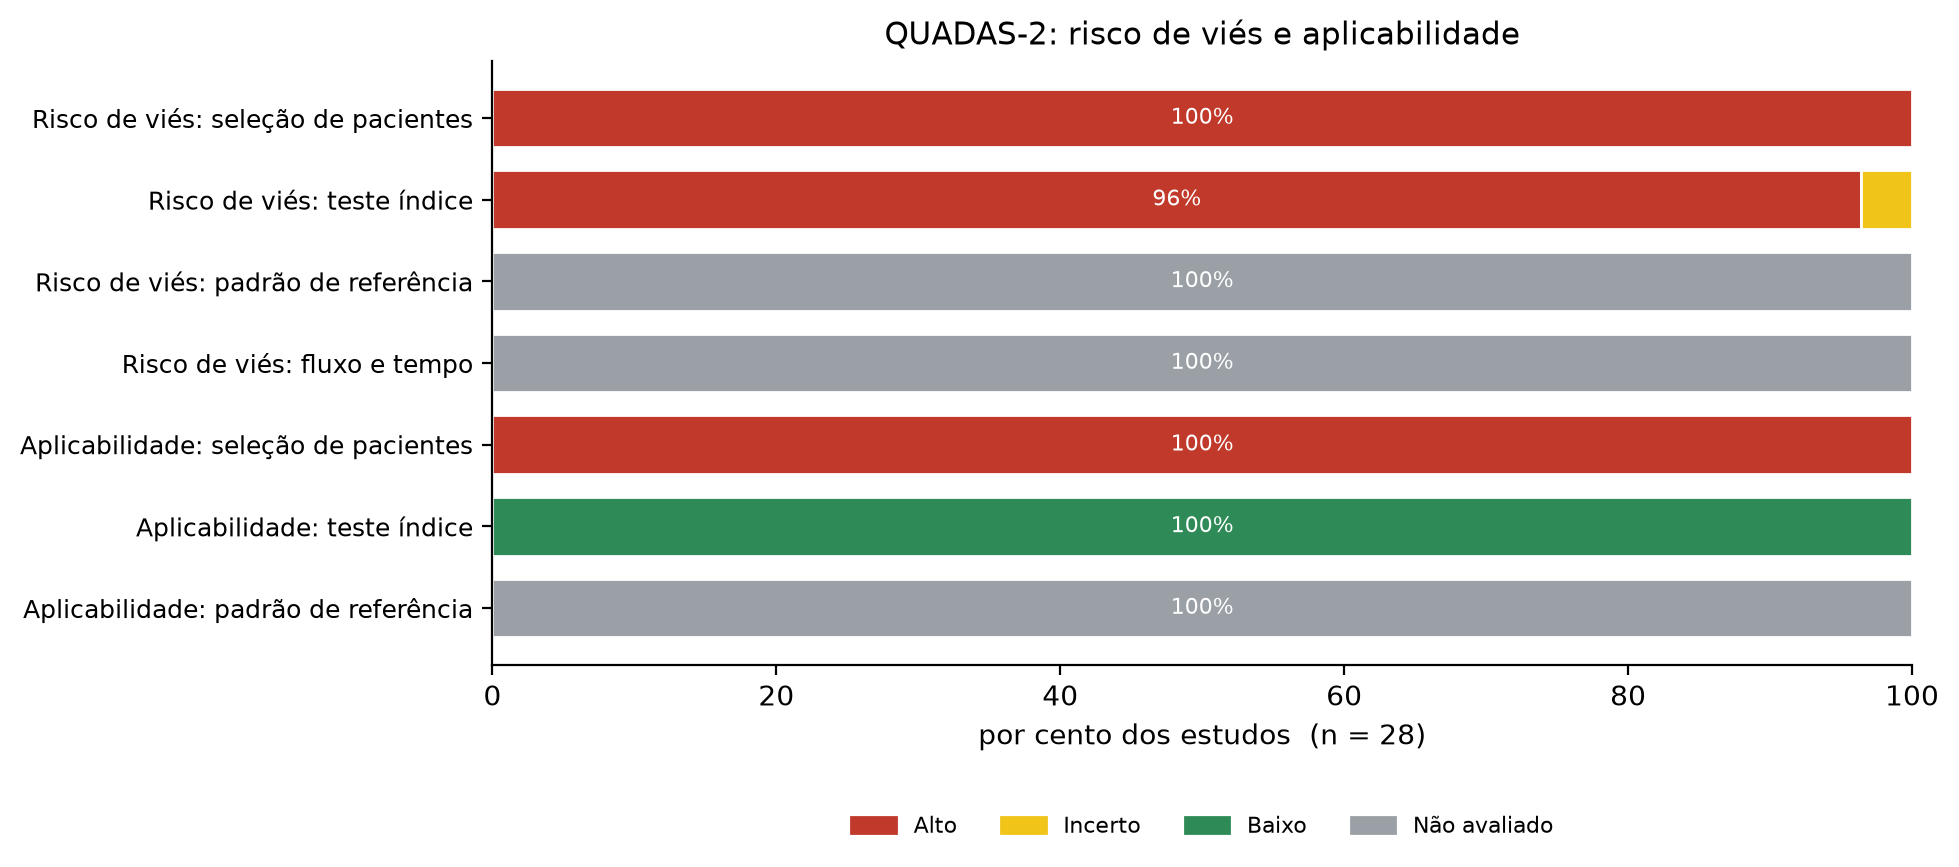
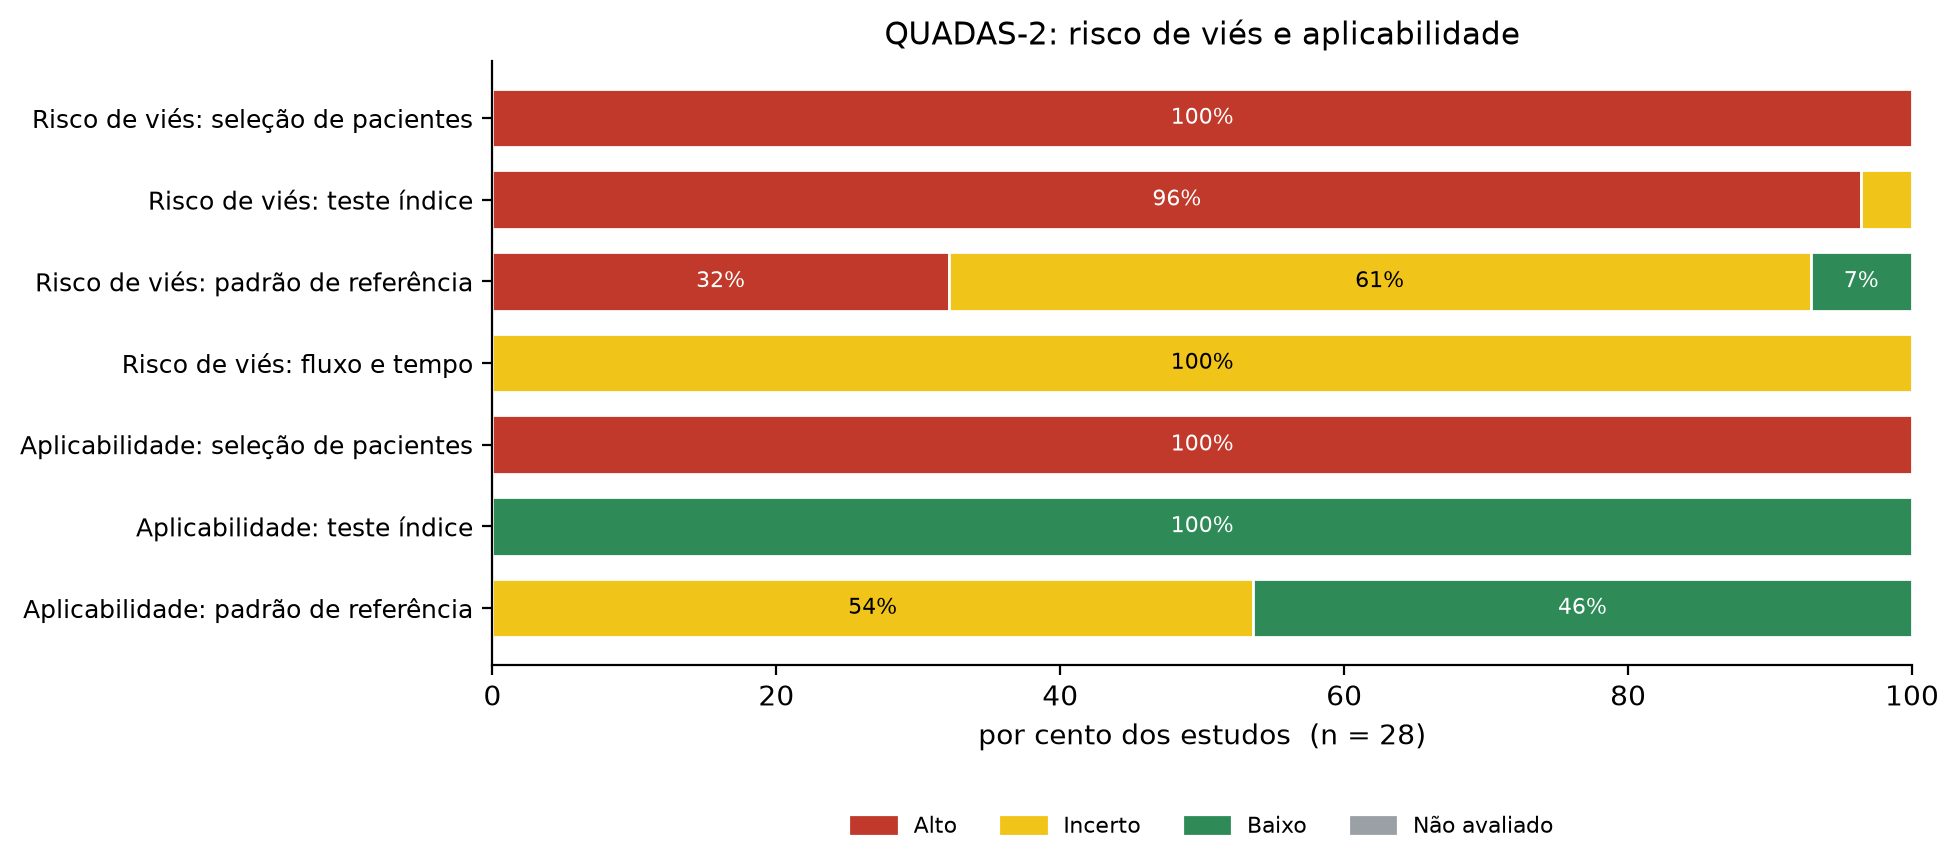
Rate the two QUADAS-2 domains that were unrated, from the full texts
data/extracted/quadas2_study_level.csv is new: one row per pooled study with the
sentence naming the diagnostic criteria and the sentence stating blinding, read
from PubMed Central full text for 22 of the 28 studies. The other 6 have no PMC
record and are recorded as such rather than guessed.

What the reading found:
- 13 of 22 name accepted diagnostic criteria for their own cohort. Building the
  extractor took three passes: the first pulled sentences out of introductions
  ('clinical diagnosis of AD is usually based on...'), the second was so strict
  it rejected 'PD was diagnosed according to the United Kingdom Brain Bank
  Society Criteria', and the third also had to prefer the sentence matching the
  row's disease, because one AD study's first criteria sentence describes its
  DLB comparator.
- ONE study of 28 has neuropathological confirmation. Every other reference
  standard is clinical criteria, which misclassify a known fraction of AD and
  PD cases, so their error propagates into every pooled estimate.
- ONE study of 28 states that laboratory staff were blinded to diagnosis.
- NONE of the 22 full texts contains a STARD flow diagram; one accounts for
  post-enrolment exclusions and one gives the sampling-to-diagnosis interval.

So reference standard is now 2 low, 17 unclear, 9 high, and flow and timing is
unclear for all 28 - checked against the primary reports and unanswerable from
them, which is a finding about how this literature reports rather than a gap in
[…]

Changed region(s): [[0.2491, 0.2803, 0.9964, 0.4671], [0.2491, 0.654, 0.9964, 0.7474]]

diff --git a/scripts/14_quadas2_risk_of_bias.py b/scripts/14_quadas2_risk_of_bias.py
@@ -61,6 +61,7 @@ sys.path.insert(0, os.path.dirname(os.path.abspath(__file__)))
 from _bilingual import LANGS, t, fig_path
 
 EXTRACTION = "data/extracted/diagnostic_accuracy_extraction.csv"
+STUDY_LEVEL = "data/extracted/quadas2_study_level.csv"
 TAB_DIR = "results/tables"
 FIG_DIR = "results/figures"
 
@@ -152,38 +153,77 @@ def rob_index_test(rows):
     return UNCLEAR, "cohort stage not determinable [cohort_stage]"
 
 
-def rob_reference_standard(rows):
+def rob_reference_standard(rows, sl):
     """
     EN | Signalling questions: is the reference standard likely to classify the target
          condition correctly? was it interpreted without knowledge of the index test?
-         Neither is answerable: the extraction did not record which diagnostic criteria
-         each study used, nor whether the diagnosis was made blind to the miRNA result.
-         This matters more than usual here, because for Alzheimer and Parkinson disease
-         the practical reference standard is clinical criteria rather than autopsy, and
-         its own error rate propagates into every accuracy estimate pooled in this review.
+         Both are answered from data/extracted/quadas2_study_level.csv, which records,
+         per study, the sentence naming the diagnostic criteria and the sentence stating
+         blinding, read from the PubMed Central full text.
+         The judgement turns on a fact specific to these two diseases: the practical
+         reference standard is clinical criteria, not autopsy, and clinical criteria
+         misclassify a known fraction of cases. A study that names accepted criteria has
+         done what the field expects and still cannot be rated LOW on that ground alone,
+         because the standard it used is imperfect and the accuracy estimates inherit its
+         error. Only neuropathological confirmation, or named criteria plus stated
+         blinding, clears the domain.
     PT | Perguntas-sinal: o padrao de referencia provavelmente classifica corretamente a
          condicao alvo? foi interpretado sem conhecer o teste indice?
-         Nenhuma e respondivel: a extracao nao registrou quais criterios diagnosticos cada
-         estudo usou, nem se o diagnostico foi feito cego ao resultado do miRNA. Isso pesa
-         mais que o normal aqui, porque para doenca de Alzheimer e de Parkinson o padrao
-         de referencia pratico e criterio clinico e nao autopsia, e a taxa de erro dele se
-         propaga para toda estimativa agrupada nesta revisao.
+         As duas sao respondidas por data/extracted/quadas2_study_level.csv, que registra,
+         por estudo, a frase que nomeia os criterios diagnosticos e a frase que declara
+         cegamento, lidas do texto completo no PubMed Central.
+         O julgamento gira num fato especifico destas duas doencas: o padrao de referencia
+         pratico e criterio clinico, nao autopsia, e criterio clinico classifica errado uma
+         fracao conhecida dos casos. Um estudo que nomeia criterios aceitos fez o que o
+         campo espera e ainda assim nao pode ser LOW so por isso, porque o padrao que usou
+         e imperfeito e as estimativas de acuracia herdam o erro dele. So confirmacao
+         neuropatologica, ou criterios nomeados mais cegamento declarado, limpa o dominio.
     """
-    return UNRATED, "reference standard and blinding were not captured by the extraction"
+    if not sl:
+        return UNCLEAR, "no study-level record for this study [quadas2_study_level.csv]"
+    if sl["fulltext_availability"] != "yes":
+        return UNCLEAR, (f"full text not retrievable ({sl['fulltext_availability']}), so the "
+                         "reference standard could not be checked [quadas2_study_level.csv]")
+    if sl["autopsy_confirmed"] == "yes":
+        return LOW, "neuropathological confirmation of the target condition [reference_standard_quote]"
+    if sl["reference_standard_named"] == "yes":
+        if sl["blinding_stated"] == "yes":
+            return LOW, ("named diagnostic criteria and stated blinding to the index test "
+                         "[reference_standard_quote, blinding_quote]")
+        return UNCLEAR, ("named clinical diagnostic criteria, which misclassify a known "
+                         "fraction of AD and PD cases, and no statement of blinding "
+                         "[reference_standard_quote]")
+    return HIGH, ("the full text was read and names no diagnostic criteria for the target "
+                  "condition [reference_standard_named=no]")
 
 
-def rob_flow_timing(rows):
+def rob_flow_timing(rows, sl):
     """
     EN | Signalling questions: appropriate interval between index test and reference
          standard? did all patients receive a reference standard, and the same one? were
          all patients included in the analysis?
-         None is answerable from the extraction.
+         These were checked against the full texts and are, with one exception each, not
+         reported: none of the 22 retrievable full texts contains a STARD flow diagram or
+         flow chart, one accounts for post-enrolment exclusions, and one states the
+         interval between sampling and diagnosis. The domain is therefore UNCLEAR rather
+         than unrated - the question was asked of the primary reports and they do not
+         answer it. That silence is itself a finding about how this literature reports.
     PT | Perguntas-sinal: intervalo adequado entre teste indice e padrao de referencia?
          todos os pacientes receberam padrao de referencia, e o mesmo? todos entraram na
          analise?
-         Nenhuma e respondivel pela extracao.
+         Foram conferidas contra os textos completos e, com uma excecao cada, nao sao
+         reportadas: nenhum dos 22 textos completos recuperaveis traz fluxograma STARD ou
+         diagrama de fluxo, um presta contas de exclusoes apos a inclusao e um declara o
+         intervalo entre coleta e diagnostico. O dominio fica UNCLEAR e nao nao-avaliado -
+         a pergunta foi feita aos relatos primarios e eles nao respondem. Esse silencio e,
+         em si, um achado sobre como esta literatura reporta.
     """
-    return UNRATED, "patient flow and timing were not captured by the extraction"
+    if not sl or sl["fulltext_availability"] != "yes":
+        return UNCLEAR, ("full text not retrievable, so patient flow could not be checked "
+                         "[quadas2_study_level.csv]")
+    return UNCLEAR, ("full text read: no STARD flow diagram, and neither the accounting of "
+                     "all enrolled participants nor the interval between sampling and "
+                     "diagnosis is reported [full text]")
 
 
 def app_patient_selection(rows):
@@ -236,9 +276,22 @@ def app_index_test(rows):
     return LOW, f"minimally invasive circulating sample: {sorted(fluids)} [biofluid]"
 
 
-def app_reference_standard(rows):
-    """EN/PT: not captured by the extraction, as in rob_reference_standard."""
-    return UNRATED, "reference standard was not captured by the extraction"
+def app_reference_standard(rows, sl):
+    """
+    EN | Does the target condition as defined by the reference standard match the review
+         question? The review asks about diagnosing clinically established AD or PD, and a
+         study using the accepted clinical criteria for those diseases is answering that
+         question, whatever the criteria's own error rate.
+    PT | A condicao alvo definida pelo padrao de referencia corresponde a pergunta da
+         revisao? A revisao trata de diagnosticar DA ou DP clinicamente estabelecida, e um
+         estudo que usa os criterios clinicos aceitos para essas doencas esta respondendo a
+         essa pergunta, qualquer que seja a taxa de erro dos criterios.
+    """
+    if not sl or sl["fulltext_availability"] != "yes":
+        return UNCLEAR, "full text not retrievable [quadas2_study_level.csv]"
+    if sl["reference_standard_named"] == "yes" or sl["autopsy_confirmed"] == "yes":
+        return LOW, "the target condition is AD or PD as defined by accepted criteria"
+    return UNCLEAR, "the target condition definition is not stated in the full text"
 
 
 RULES = OrderedDict([
@@ -252,7 +305,10 @@ RULES = OrderedDict([
 ])
 
 
-def assess(rows_by_study):
+NEEDS_STUDY_LEVEL = {"rob_reference_standard", "rob_flow_timing", "app_reference_standard"}
+
+
+def assess(rows_by_study, study_level):
     out = []
     for sid, rows in sorted(rows_by_study.items()):
         first = rows[0]
@@ -266,8 +322,9 @@ def assess(rows_by_study):
             ("n_estimates_eligible", sum(1 for r in rows
                                          if r["eligible_primary_pool"] == "yes")),
         ])
+        sl = study_level.get(sid)
         for key, rule in RULES.items():
-            verdict, reason = rule(rows)
+            verdict, reason = (rule(rows, sl) if key in NEEDS_STUDY_LEVEL else rule(rows))
             rec[key] = verdict
             rec[key + "_reason"] = reason
         out.append(rec)
@@ -331,7 +388,11 @@ def main():
     for r in eligible:
         by_study.setdefault(study_id(r), []).append(r)
 
-    assessment = assess(by_study)
+    study_level = {}
+    if os.path.exists(STUDY_LEVEL):
+        study_level = {r["study_id"]: r
+                       for r in csv.DictReader(open(STUDY_LEVEL, encoding="utf-8"))}
+    assessment = assess(by_study, study_level)
     fields = list(assessment[0].keys())
     with open(f"{TAB_DIR}/quadas2_assessment.csv", "w", encoding="utf-8", newline="") as fh:
         w = csv.DictWriter(fh, fieldnames=fields)

diff --git a/scripts/08_verify_consistency.py b/scripts/08_verify_consistency.py
@@ -28,6 +28,7 @@ PT | Este repositorio e um pacote de reprodutibilidade: dados brutos, scripts,
 import csv
 import json
 import math
+import re
 import sys
 
 EXTRACTION = "data/extracted/diagnostic_accuracy_extraction.csv"
@@ -46,6 +47,7 @@ COUNTS = "data/raw/systematic_review_2026/mirna_mention_counts.csv"
 CORPUS = "data/raw/systematic_review_2026/screening_corpus.json"
 TRIALS = "data/raw/clinical_trials_2026/mirna_therapeutics_trials.json"
 QUADAS = "results/tables/quadas2_assessment.csv"
+QUADAS_STUDY_LEVEL = "data/extracted/quadas2_study_level.csv"
 QUADAS_SUMMARY = "results/tables/quadas2_summary.json"
 BIVARIATE = "results/tables/bivariate_summary.csv"
 BIVARIATE_JSON = "results/tables/bivariate_model.json"
@@ -607,6 +609,64 @@ def main():
         check(qsum["excluded_non_case_control_estimates"] == excluded,
               f"QUADAS-2: the recorded eligibility circularity {qsum['excluded_non_case_control_estimates']} "
               f"disagrees with the extraction {excluded}")
+
+    # EN | The study-level record behind the reference-standard and flow domains. A
+    #      verdict of LOW or HIGH there rests on a quoted sentence, so the quote has to be
+    #      present, and the flags derived from it have to agree with it.
+    # PT | O registro por estudo que sustenta os dominios de padrao de referencia e fluxo.
+    #      Um veredito LOW ou HIGH ali repousa numa frase citada, entao a citacao precisa
+    #      existir, e os sinalizadores derivados dela precisam concordar com ela.
+    try:
+        sl = list(csv.DictReader(open(QUADAS_STUDY_LEVEL, encoding="utf-8")))
+    except FileNotFoundError:
+        sl = None
+    if sl is not None and quadas is not None:
+        eligible_studies = {study_id(r) for r in ext if r["eligible_primary_pool"] == "yes"}
+        check({r["study_id"] for r in sl} == eligible_studies,
+              "QUADAS-2 study level: the studies covered are not the studies pooled")
+        for r in sl:
+            avail = r["fulltext_availability"]
+            check(avail in ("yes", "no_fulltext_in_pmc", "no_pmc_record"),
+                  f"QUADAS-2 study level {r['study_id']}: unexpected availability {avail!r}")
+            if avail != "yes":
+                check(not r["reference_standard_quote"] and not r["blinding_quote"],
+                      f"QUADAS-2 study level {r['study_id']}: quotes recorded although the "
+                      "full text was not retrievable")
+                continue
+            check(r["reference_standard_named"] in ("yes", "no"),
+                  f"QUADAS-2 study level {r['study_id']}: reference_standard_named must be yes or no")
+            check((r["reference_standard_named"] == "yes") == bool(r["reference_standard_quote"]),
+                  f"QUADAS-2 study level {r['study_id']}: the named flag and the quote disagree")
+            check((r["blinding_stated"] == "yes") == bool(r["blinding_quote"]),
+                  f"QUADAS-2 study level {r['study_id']}: the blinding flag and the quote disagree")
+            if r["autopsy_confirmed"] == "yes":
+                check(bool(re.search(r"autops|neuropatholog|Braak|Brain Bank Network",
+                                     r["reference_standard_quote"], re.I)),
+                      f"QUADAS-2 study level {r['study_id']}: autopsy claimed but the quote "
+                      "does not mention neuropathological confirmation")
+        # EN/PT: every reference-standard verdict must follow from the study-level record
+        by_sl = {r["study_id"]: r for r in sl}
+        for row in quadas:
+            rec = by_sl.get(row["study_id"])
+            if not rec:
+                continue
+            v = row["rob_reference_standard"]
+            if rec["autopsy_confirmed"] == "yes" or rec["blinding_stated"] == "yes":
+                check(v == "low", f"QUADAS-2 {row['study_id']}: expected low reference-standard risk")
+            elif rec["fulltext_availability"] != "yes":
+                check(v == "unclear",
+                      f"QUADAS-2 {row['study_id']}: unretrievable full text must be unclear")
+            elif rec["reference_standard_named"] == "yes":
+                check(v == "unclear", f"QUADAS-2 {row['study_id']}: named criteria must be unclear")
+            else:
+                check(v == "high", f"QUADAS-2 {row['study_id']}: unnamed criteria must be high")
+        check(all(r["rob_flow_timing"] == "unclear" for r in quadas),
+              "QUADAS-2: flow and timing is no longer uniformly unclear; the reason text "
+              "in scripts/14 claims it is, so one of the two is now wrong")
+        check(all(r[d] != "unrated" for r in quadas
+                  for d in ("rob_patient_selection", "rob_index_test",
+                            "rob_reference_standard", "rob_flow_timing")),
+              "QUADAS-2: a risk-of-bias domain is unrated again")
 
     # --- 8c. Bivariate model ------------------------------------------------
     # EN | Recompute the derived diagnostic measures from the summary point, and require
